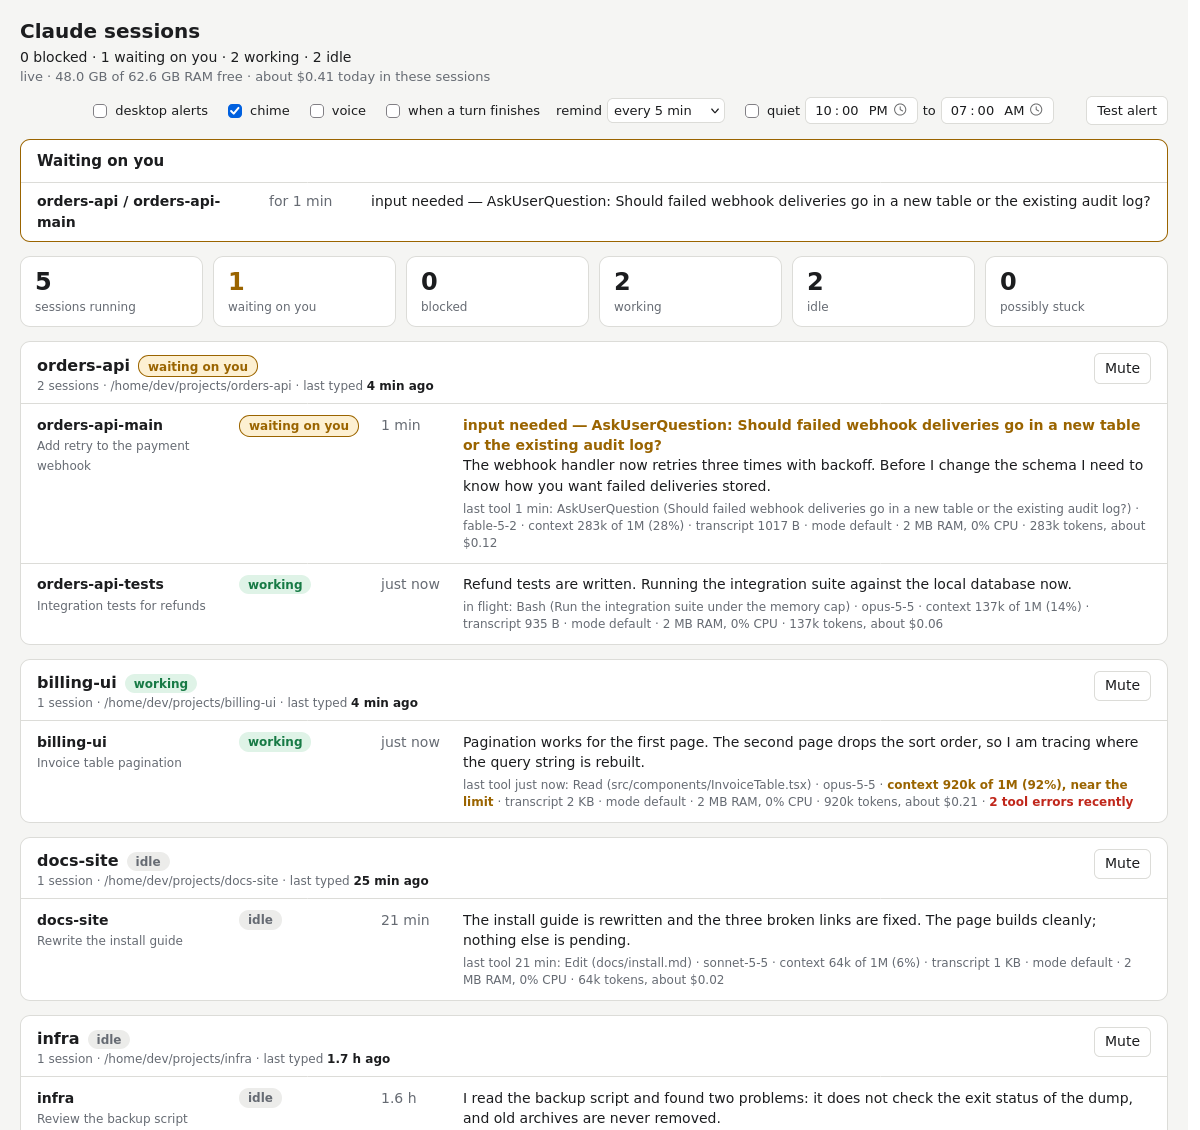
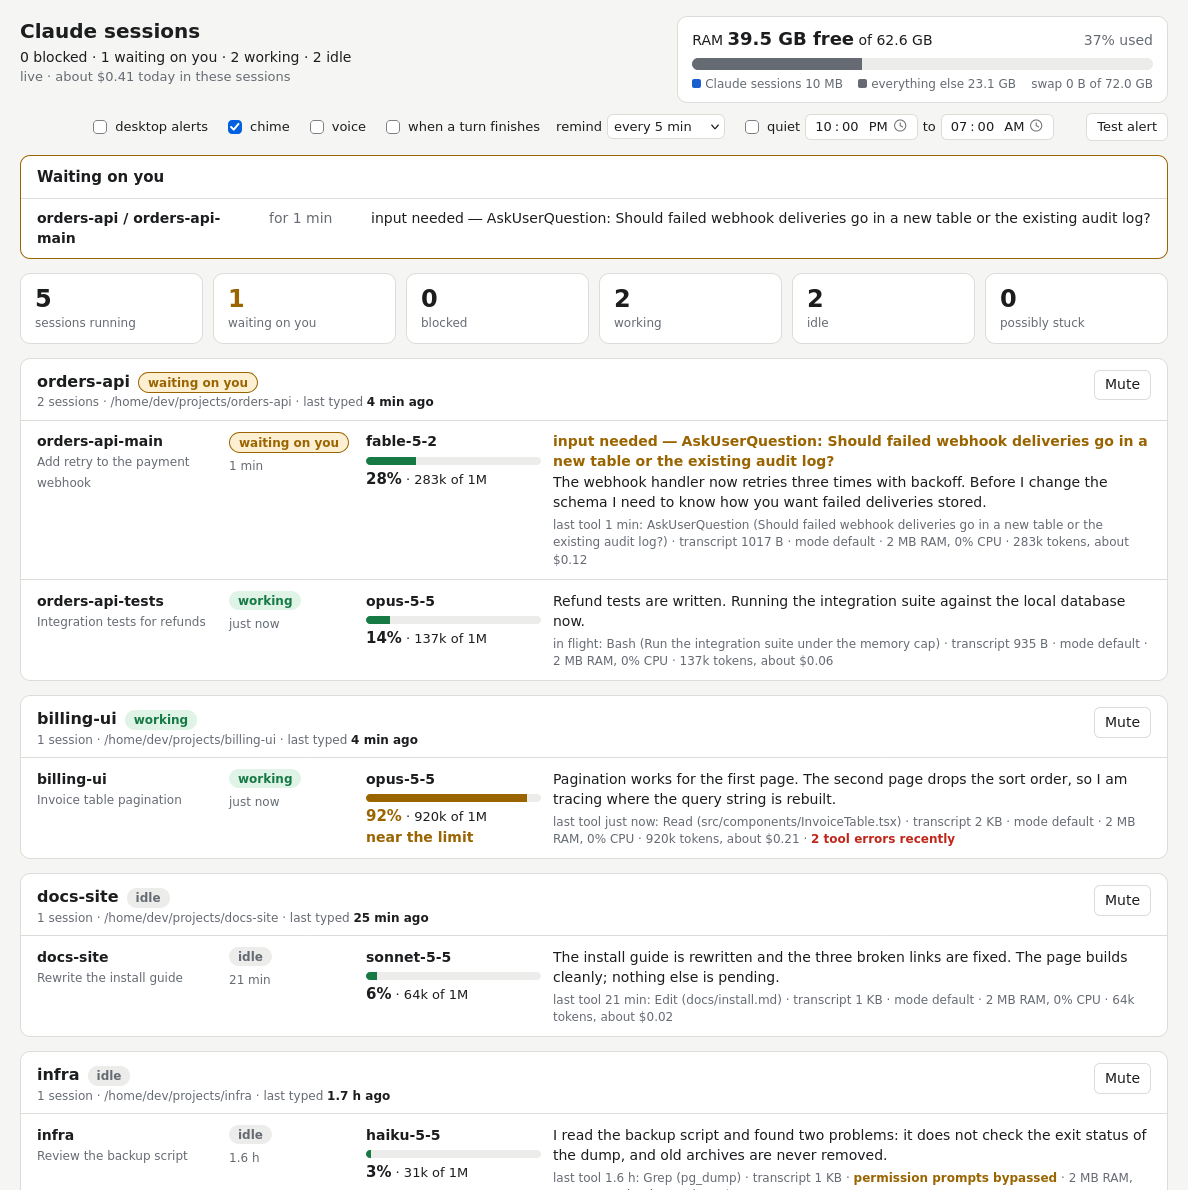
Show host RAM at the top of the page
A panel shows free memory, the share used by Claude sessions against
everything else, and swap. It changes colour and alerts when free memory
runs low. The text output gains a matching RAM line. Also updates the
README and its screenshot for this and the model and context column.

diff --git a/web/index.html b/web/index.html
@@ -29,6 +29,16 @@ button { background: var(--panel); border: 1px solid var(--line); border-radius:
 button:hover { border-color: var(--dim); }
 input[type=time], select { background: var(--panel); border: 1px solid var(--line); border-radius: 6px; padding: 3px 6px; }
 a, .link { color: var(--link); cursor: pointer; text-decoration: underline; background: none; border: 0; padding: 0; }
+.top { display: flex; flex-wrap: wrap; gap: 12px 24px; align-items: flex-start; justify-content: space-between; }
+.ram { flex: 1 1 380px; max-width: 560px; background: var(--panel); border: 1px solid var(--line); border-radius: 10px; padding: 9px 14px; }
+.ram .head { display: flex; justify-content: space-between; align-items: baseline; gap: 12px; }
+.ram .head b { font-size: 18px; }
+.ram .bar { display: flex; height: 12px; border-radius: 6px; background: var(--idle-bg); margin: 6px 0 5px; overflow: hidden; }
+.ram .bar .mine { background: var(--link); } .ram .bar .other { background: var(--idle); }
+.ram.low { border-color: var(--wait); } .ram.low .head b { color: var(--wait); }
+.ram.critical { border-color: var(--bad); } .ram.critical .head b { color: var(--bad); }
+.ram .key { font-size: 12px; color: var(--dim); }
+.ram .key i { display: inline-block; width: 9px; height: 9px; border-radius: 2px; margin-right: 4px; }
 .controls { display: flex; flex-wrap: wrap; gap: 6px 16px; align-items: center; justify-content: flex-end; margin: 10px 0 14px; font-size: 13px; }
 .controls label { display: inline-flex; align-items: center; gap: 5px; white-space: nowrap; }
 .pill { display: inline-block; border-radius: 999px; padding: 1px 9px; font-size: 12px; font-weight: 600; white-space: nowrap; }
@@ -79,9 +89,14 @@ a, .link { color: var(--link); cursor: pointer; text-decoration: underline; back
 </head>
 <body>
 <main>
-  <h1>Claude sessions</h1>
-  <div id="summary">connecting…</div>
-  <div class="sub"><span id="conn"></span><span id="extra"></span></div>
+  <div class="top">
+    <div>
+      <h1>Claude sessions</h1>
+      <div id="summary">connecting…</div>
+      <div class="sub"><span id="conn"></span><span id="extra"></span></div>
+    </div>
+    <div id="ram"></div>
+  </div>
 
   <div class="controls">
     <label title="Show a desktop notification when a session starts waiting on you"><input type="checkbox" id="optNotify"> desktop alerts</label>
@@ -157,11 +172,10 @@ function render() {
   $("summary").textContent = [c.blocked + " blocked", c.waiting + " waiting on you",
     c.busy + " working", c.idle + " idle"].join(" · ");
   const extra = [];
-  if (snap.host && snap.host.memTotal)
-    extra.push(bytes(snap.host.memAvailable) + " of " + bytes(snap.host.memTotal) + " RAM free");
   if (snap.showCost && snap.costToday > 0) extra.push("about " + money(snap.costToday) + " today in these sessions");
   $("extra").textContent = extra.length ? " · " + extra.join(" · ") : "";
 
+  renderRam();
   renderBanner();
   renderTiles(c);
   const box = $("projects");
@@ -169,6 +183,48 @@ function render() {
   if (!snap.projects.length) box.append(el("div", "empty", "No Claude Code sessions are running."));
   for (const p of snap.projects) box.append(renderProject(p));
   updateTab(c);
+}
+
+// Free RAM below these shares of the total is flagged.
+const RAM_LOW = 0.15, RAM_CRITICAL = 0.07;
+function ramLevel() {
+  const h = snap && snap.host;
+  if (!h || !h.memTotal) return "";
+  const free = h.memAvailable / h.memTotal;
+  return free < RAM_CRITICAL ? "critical" : free < RAM_LOW ? "low" : "";
+}
+
+function renderRam() {
+  const box = $("ram");
+  box.replaceChildren();
+  const h = snap.host;
+  if (!h || !h.memTotal) return;
+  let mine = 0;
+  for (const p of snap.projects) for (const s of p.sessions) mine += s.rss || 0;
+  const used = Math.max(0, h.memTotal - h.memAvailable);
+  mine = Math.min(mine, used);
+  const level = ramLevel();
+  const panel = el("div", "ram" + (level ? " " + level : ""));
+  const head = el("div", "head");
+  const left = el("span");
+  left.append("RAM ", el("b", "", bytes(h.memAvailable) + " free"), " of " + bytes(h.memTotal));
+  head.append(left, el("span", "dim", Math.round(used / h.memTotal * 100) + "% used" +
+    (level === "critical" ? " — very low" : level === "low" ? " — running low" : "")));
+  const bar = el("div", "bar");
+  const seg = (cls, n) => { const i = el("i", cls); i.style.width = (n / h.memTotal * 100).toFixed(2) + "%"; bar.append(i); };
+  seg("mine", mine); seg("other", used - mine);
+  const key = el("div", "key");
+  const item = (color, text) => {
+    if (key.childNodes.length) key.append(" \u00a0 ");
+    if (color) { const dot = el("i"); dot.style.background = "var(" + color + ")"; key.append(dot); }
+    key.append(text);
+  };
+  item("--link", "Claude sessions " + bytes(mine));
+  item("--idle", "everything else " + bytes(used - mine));
+  if (h.swapTotal) item("", "swap " + bytes(h.swapUsed) + " of " + bytes(h.swapTotal));
+  panel.append(head, bar, key);
+  panel.title = "Free means available without swapping. Session memory includes the programs each session started.";
+  box.append(panel);
 }
 
 function renderBanner() {
@@ -406,11 +462,23 @@ function fire(title, body, spoken, tag) {
   }
 }
 
+let lastRamLevel = "";
+function checkRam() {
+  const level = ramLevel();
+  if (!firstSnapshot && level && level !== lastRamLevel && (level === "critical" || !lastRamLevel)) {
+    const h = snap.host;
+    fire("RAM is " + (level === "critical" ? "very low" : "running low"),
+      bytes(h.memAvailable) + " free of " + bytes(h.memTotal) + ".", "Memory is running low", "ccmon-ram");
+  }
+  lastRamLevel = level;
+}
+
 const seen = new Map();   // pid -> what the last snapshot said
 const alerted = new Map(); // pid -> when it was last alerted while waiting
 let firstSnapshot = true;
 
 function checkAlerts() {
+  checkRam();
   const live = new Set();
   for (const p of snap.projects) for (const s of p.sessions) {
     live.add(s.pid);

diff --git a/main.go b/main.go
@@ -194,13 +194,25 @@ func printText(w io.Writer, snap model.Snapshot, now time.Time) {
 	if c.Stuck > 0 {
 		fmt.Fprintf(w, " · %d possibly stuck", c.Stuck)
 	}
-	if snap.Host.MemTotal > 0 {
-		fmt.Fprintf(w, " · %s RAM free", size(snap.Host.MemAvailable))
-	}
 	if snap.ShowCost && snap.CostToday > 0 {
 		fmt.Fprintf(w, " · about $%.2f today", snap.CostToday)
 	}
 	fmt.Fprintln(w)
+	if h := snap.Host; h.MemTotal > 0 {
+		used := h.MemTotal - min(h.MemAvailable, h.MemTotal)
+		var sessions uint64
+		for _, p := range snap.Projects {
+			for _, s := range p.Sessions {
+				sessions += s.RSS
+			}
+		}
+		fmt.Fprintf(w, "RAM: %.0f%% used · %s free of %s · Claude sessions use %s",
+			float64(used)/float64(h.MemTotal)*100, size(h.MemAvailable), size(h.MemTotal), size(sessions))
+		if h.SwapTotal > 0 {
+			fmt.Fprintf(w, " · swap %s of %s", size(h.SwapUsed), size(h.SwapTotal))
+		}
+		fmt.Fprintln(w)
+	}
 	for _, p := range snap.Projects {
 		fmt.Fprintf(w, "\n%s  %s", p.Name, p.Path)
 		if g := p.VCS; g != nil && g.Branch != "" {

diff --git a/internal/procinfo/procinfo.go b/internal/procinfo/procinfo.go
@@ -46,7 +46,9 @@ type Stats struct {
 // Host is machine-wide memory.
 type Host struct {
 	MemTotal     uint64 `json:"memTotal"`
-	MemAvailable uint64 `json:"memAvailable"`
+	MemAvailable uint64 `json:"memAvailable"` // usable without swapping
+	SwapTotal    uint64 `json:"swapTotal"`
+	SwapUsed     uint64 `json:"swapUsed"`
 }
 
 // Sampler remembers CPU times between calls so it can report a rate.
@@ -127,11 +129,15 @@ func (s *Sampler) Sample(pids []int) map[int]Stats {
 	return out
 }
 
-// HostMemory returns machine-wide memory figures.
+// HostMemory returns machine-wide memory and swap figures.
 func HostMemory() Host {
 	vm, err := mem.VirtualMemory()
 	if err != nil || vm == nil {
 		return Host{}
 	}
-	return Host{MemTotal: vm.Total, MemAvailable: vm.Available}
+	h := Host{MemTotal: vm.Total, MemAvailable: vm.Available}
+	if sw, err := mem.SwapMemory(); err == nil && sw != nil {
+		h.SwapTotal, h.SwapUsed = sw.Total, sw.Used
+	}
+	return h
 }

diff --git a/README.md b/README.md
@@ -66,6 +66,11 @@ For a terminal, or over SSH:
 
 ## What it shows
 
+A panel at the top shows the machine's memory: how much is free, how much the
+Claude sessions are using (including the programs they started) against
+everything else, and swap. It turns amber when less than 15% is free and red
+below 7%.
+
 Sessions are grouped by working directory. Each project shows its path, when
 you last typed in it, and its git or Subversion state. Each session shows:
 
@@ -80,8 +85,7 @@ you last typed in it, and its git or Subversion state. Each session shows:
   flight.
 - Model, context used and how close it is to the limit, transcript size and
   permission mode.
-- Memory and CPU of the session and everything it started, and the host's
-  free RAM.
+- Memory and CPU of the session and everything it started.
 - Tokens used and an estimated cost.
 - Recent tool errors, and a **stuck?** flag when a session has been working
   with no activity for 15 minutes or keeps failing the same tool call.
@@ -93,7 +97,8 @@ running with permission prompts bypassed.
 
 The controls at the top of the page turn on a chime, a spoken message and
 desktop notifications. They fire when a session starts waiting on you,
-becomes blocked, nears its context limit or looks stuck.
+becomes blocked, nears its context limit or looks stuck, and when the
+machine's free RAM falls below 15% and again below 7%.
 
 - **remind** repeats the alert while a session is still waiting.
 - **when a turn finishes** also alerts when a session goes idle after working
